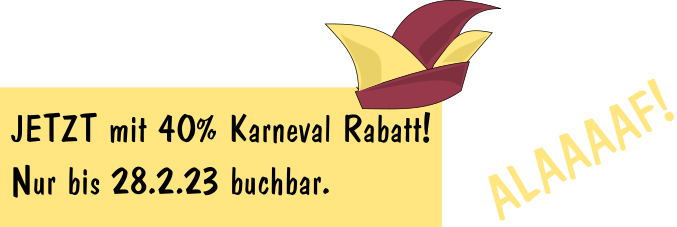
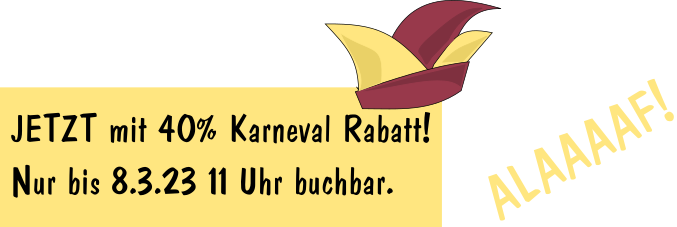
neeus Datum Karneval

Changed region(s): [[0.1551, 0.7093, 0.5894, 0.8634]]

diff --git a/src/index.html b/src/index.html
@@ -96,8 +96,8 @@
        
 
         <div class="text-white col-8">
-          <img width="300px" src="images/erwecke/karneval.png" alt="karneval 2023">
-          <img class="img-fluid w-50" src="images/erwecke/konfetti.png" alt="Konfetti Gutschein">
+          <img width="400px" src="images/erwecke/karneval.png" alt="karneval 2023">
+          <img class="img-fluid w-30" src="images/erwecke/konfetti.png" alt="Konfetti Gutschein">
         </div>
       </br>
         
@@ -597,7 +597,7 @@
               buchen</b></a>
           </br></br>
           <p class=" text-white">
-            Bis 28.02.2023 hier buchen und "KARNEVAL23" als Gutscheincode angeben! (Auch als Ratenzahlung möglich 3x330€!)
+            Bis 20.02.23 11 Uhr bis 8.03.23 11 Uhr hier buchen und "KARNEVAL23" als Gutscheincode angeben! (Auch als Ratenzahlung möglich 3x330€!)
             </p>
           </br></br>
         </div>
@@ -610,16 +610,16 @@
   <section class="section" >
     <div class="container">
       <div class="row ">
-        <div class=" col-12 justify-content-center">
+        <div class=" col-12 ">
           <h2 class="section-title">Für wen ist dieser Kurs?</h2>
-          <div class="col-md-12 col-12 text-center">
+          <div class="col-md-12 col-12 ">
           <img class="img-fluid w-30" src="images/erwecke/einzigartigkeit.png" alt="Konfetti Gutschein">
 </div>
 
          
         
         </div>
-        <div class="col-6 col-md-4 order-1 order-md-1 mb-4 mb-md-0">
+        <div class="col-6 col-md-12 order-1 order-md-1 mb-4 mb-md-0">
         </div>
         <div class="col-md-7 order-2 order-md-2">
           <h4 class="section-title">Dieser Kurs ist für dich, wenn du:</h4>
@@ -706,8 +706,8 @@
           <a target="_blank" href="https://www.copecart.com/products/c2ae2fbc/checkout" class="btn btn-primary"><b>Jetzt für 899,40 €
               buchen</b></a>
           </br></br>
-          <p class=" text-white">Einfach "KARNEVAL23" als Gutscheincode bei der Zahlung angeben. Noch bis 28.02.2023,
-            23 Uhr.</br>
+          <p class=" text-white">Einfach "KARNEVAL23" als Gutscheincode bei der Zahlung angeben. Noch bis 08.03.23,
+            11 Uhr.</br>
             (Danach 1.499€)</p>
           </br></br>
         </div>
@@ -973,7 +973,7 @@ Erwecke jetzt deinen Ninja in dir! </h4>
   <!-- jQuery -->
   <script src="plugins/jQuery/jquery.min.js"></script>
   <!-- Bootstrap JS -->
-  <script src="plugins/bootstrap/bootstrap.min.js"></script>
+  <!-- <script src="plugins/bootstrap/bootstrap.min.js"></script> -->
   <!-- slick slider -->
   <script src="plugins/slick/slick.min.js"></script>
   <!-- aos -->
